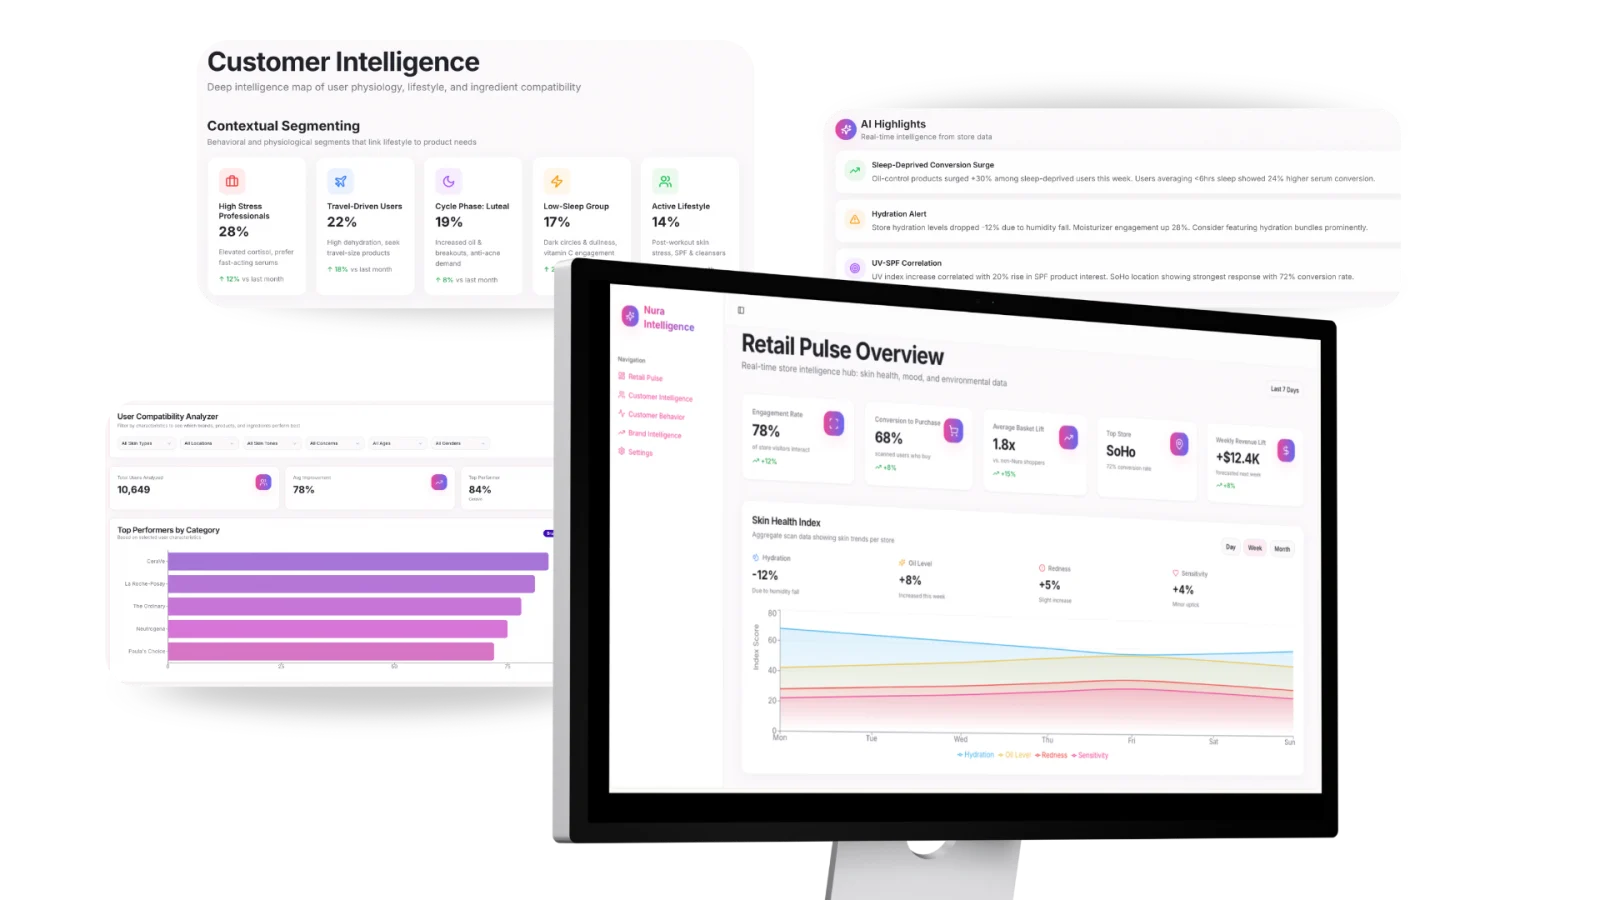
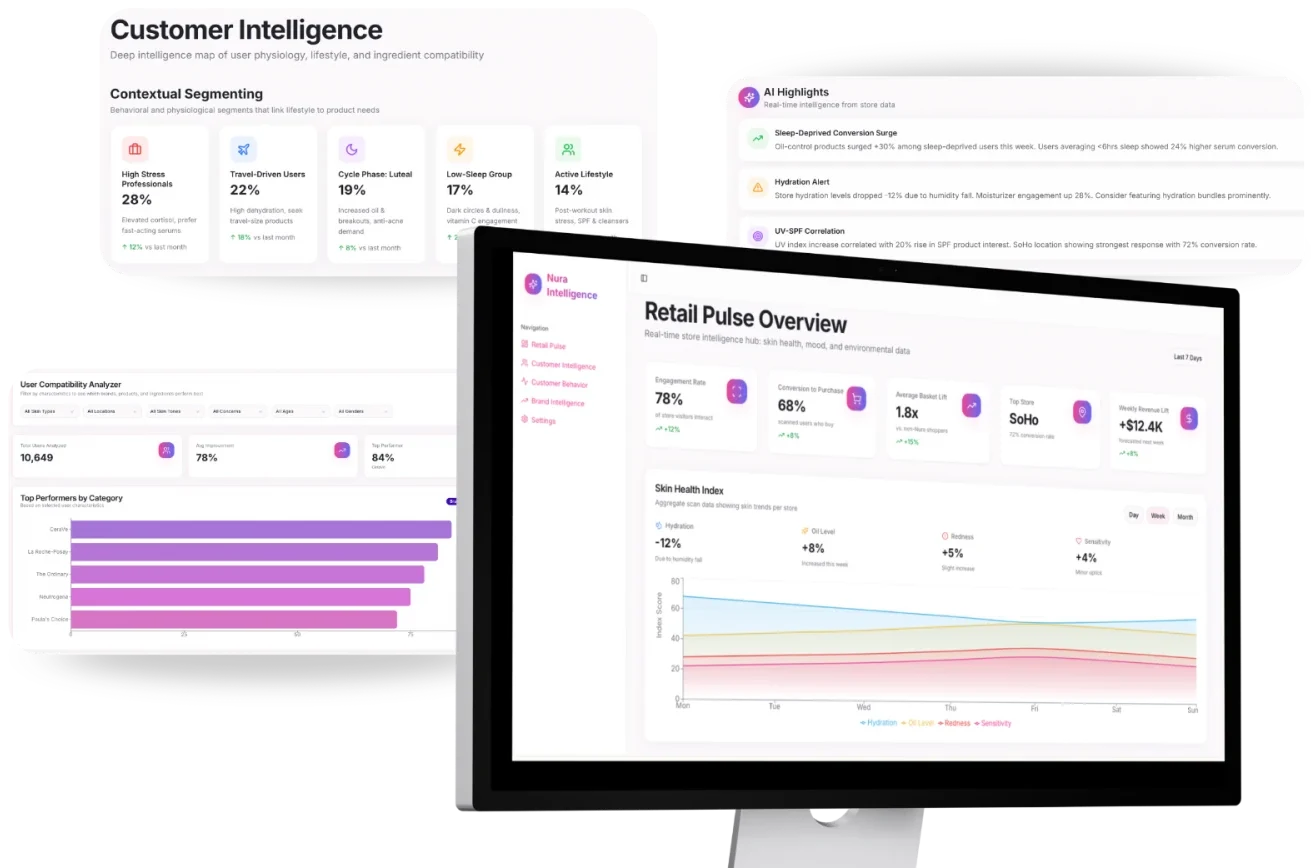
Show screens without gray panels at a larger size; frame Nura as a project

diff --git a/styles.css b/styles.css
@@ -142,38 +142,33 @@ img, video { display: block; max-width: 100%; }
 
 .work-row {
   display: grid;
-  grid-template-columns: minmax(0, 1.45fr) minmax(0, 1fr);
+  grid-template-columns: minmax(0, 1.75fr) minmax(0, 1fr);
   gap: clamp(32px, 4.5vw, 64px);
   align-items: center;
 }
 
+.work-row:nth-child(even) { grid-template-columns: minmax(0, 1fr) minmax(0, 1.75fr); }
 .work-row:nth-child(even) .work-media { order: 2; }
 
 .work-media {
   position: relative;
-  display: flex;
-  align-items: center;
-  justify-content: center;
-  aspect-ratio: 16 / 11;
-  padding: clamp(20px, 3vw, 40px);
-  overflow: hidden;
-  border-radius: var(--radius);
-  background: var(--panel);
+  display: block;
   transition: transform 0.5s var(--ease);
 }
 
 .work-media:hover { transform: translateY(-4px); }
-.work-media > img { width: 100%; height: 100%; object-fit: contain; }
-.work-media.fill { padding: 0; }
-.work-media.fill video, .work-media.fill img { width: 100%; height: 100%; object-fit: cover; }
+.work-media > img { width: 100%; height: auto; }
+.work-media.fill video { width: 100%; aspect-ratio: 16 / 10; object-fit: cover; border-radius: var(--radius); }
+.work-media .chat { margin: 0 auto; width: min(480px, 100%); }
 
 .media-tag {
-  position: absolute;
-  left: 14px; bottom: 12px;
+  display: block;
+  margin-top: 14px;
   font-size: 11px;
   font-weight: 500;
   letter-spacing: 0.08em;
   text-transform: uppercase;
+  text-align: center;
   color: var(--ink-3);
 }
 
@@ -446,22 +441,10 @@ img, video { display: block; max-width: 100%; }
 .case-meta dd a { border-bottom: 1px solid var(--rule-2); transition: border-color 0.2s; }
 .case-meta dd a:hover { border-color: var(--ink); }
 
-.case-cover {
-  position: relative;
-  display: flex;
-  align-items: center;
-  justify-content: center;
-  padding: clamp(24px, 5vw, 64px);
-  overflow: hidden;
-  border-radius: var(--radius);
-  background: var(--panel);
-}
-
+.case-cover { position: relative; display: block; }
 .case-cover > img { width: 100%; height: auto; }
-.case-cover .browser { max-width: 980px; }
-.case-cover.fill { padding: 0; }
-.case-cover.fill video { width: 100%; aspect-ratio: 16 / 9; object-fit: cover; background: #222; }
-.case-cover .chat { width: min(440px, 100%); }
+.case-cover.fill video { width: 100%; aspect-ratio: 16 / 9; object-fit: cover; background: #222; border-radius: var(--radius); }
+.case-cover .chat { margin: 16px auto; width: min(520px, 100%); }
 .cover-caption { margin-top: 12px; font-size: 13.5px; color: var(--ink-3); }
 
 .case-stats { display: grid; grid-template-columns: repeat(4, 1fr); gap: 24px; padding: 48px 0 8px; }
@@ -574,7 +557,7 @@ img, video { display: block; max-width: 100%; }
 .media-grid figcaption { margin-top: 10px; font-size: 14px; color: var(--ink-2); line-height: 1.5; }
 .media-grid figcaption b { color: var(--ink); font-weight: 500; }
 .media-grid video { width: 100%; aspect-ratio: 16 / 9; object-fit: cover; border-radius: 10px; background: #222; }
-.panel-shot { padding: 18px; background: var(--panel); border-radius: 12px; }
+.panel-shot { display: block; }
 .panel-shot img { width: 100%; height: auto; }
 
 .wide { margin-top: 40px; }
@@ -605,7 +588,7 @@ img, video { display: block; max-width: 100%; }
 
 /* Responsive */
 @media (max-width: 960px) {
-  .work-row { grid-template-columns: 1fr; gap: 24px; }
+  .work-row, .work-row:nth-child(even) { grid-template-columns: 1fr; gap: 24px; }
   .work-row:nth-child(even) .work-media { order: 0; }
 
   .split { grid-template-columns: 1fr; gap: 36px; }
@@ -660,5 +643,4 @@ img, video { display: block; max-width: 100%; }
   .figures { grid-template-columns: 1fr 1fr; }
   .media-grid.four { grid-template-columns: 1fr; }
   .url { position: static; transform: none; flex: 1; width: auto; margin-left: 10px; }
-  .work-media { aspect-ratio: 4 / 3; }
 }

diff --git a/work/nura.html b/work/nura.html
@@ -29,20 +29,20 @@
     <section class="case-hero">
       <div class="container">
         <a class="back" href="../index.html#work"><span aria-hidden="true">←</span> All work</a>
-        <p class="eyebrow reveal">Nura · 2025 to present</p>
+        <p class="eyebrow reveal">Nura · Stanford project</p>
         <h1 class="reveal">A countertop device that reads your skin and formulates fresh skincare.</h1>
         <p class="lede reveal">
           Nura reads how your skin is changing, along with signals like sleep
           and stress, and doses a personalized serum and moisturizer from eight
-          NFC-tracked active cartridges. I've taken it from 100+ interviews
-          through industrial design, the companion app, and a 3D skin model.
-          It's now taking refundable reservations for its first production run.
+          NFC-tracked active cartridges. I designed it end to end, from 100+
+          interviews through industrial design, the companion app, and a 3D
+          skin model.
         </p>
         <dl class="case-meta reveal">
-          <div><dt>Role</dt><dd>Founder · product, design, and engineering</dd></div>
-          <div><dt>Timeline</dt><dd>Sep 2025 to present</dd></div>
+          <div><dt>Role</dt><dd>End-to-end product, design, and engineering</dd></div>
+          <div><dt>Context</dt><dd>Stanford project</dd></div>
+          <div><dt>Type</dt><dd>Beauty-tech embodied AI hardware</dd></div>
           <div><dt>Stack</dt><dd>HealthKit, structure from motion, NFC</dd></div>
-          <div><dt>Site</dt><dd><a href="https://dearnura.com" target="_blank" rel="noopener">dearnura.com ↗</a></dd></div>
         </dl>
       </div>
     </section>
@@ -54,7 +54,7 @@
             <source src="../images/nura/hero.mp4" type="video/mp4" />
           </video>
         </div>
-        <figcaption class="cover-caption">Product film from dearnura.com.</figcaption>
+        <figcaption class="cover-caption">Product film of the device.</figcaption>
       </figure>
 
       <ul class="case-stats">
@@ -153,11 +153,11 @@
           </div>
           <div class="media-grid two wide">
             <figure>
-              <div class="panel-shot"><img src="../images/nura-totem.webp" width="1600" height="900" loading="lazy" alt="Nura in-store interface: a skin analysis, the lifestyle factors behind it, a welcome screen, and a personalized routine" /></div>
+              <div class="panel-shot"><img src="../images/nura-totem.webp" width="1407" height="798" loading="lazy" alt="Nura in-store interface: a skin analysis, the lifestyle factors behind it, a welcome screen, and a personalized routine" /></div>
               <figcaption><b>In-store skin analysis.</b> Scores, the factors behind them, and a routine with product reasoning.</figcaption>
             </figure>
             <figure>
-              <div class="panel-shot"><img src="../images/nura-retail.webp" width="1600" height="900" loading="lazy" alt="Nura Retail Intelligence dashboard with customer segments, AI highlights, and a store skin health index" /></div>
+              <div class="panel-shot"><img src="../images/nura-retail.webp" width="1313" height="868" loading="lazy" alt="Nura Retail Intelligence dashboard with customer segments, AI highlights, and a store skin health index" /></div>
               <figcaption><b>Retail intelligence.</b> Skin, behavior, environment, and product data in one store view.</figcaption>
             </figure>
           </div>

diff --git a/index.html b/index.html
@@ -35,8 +35,8 @@
         <p class="lede reveal">
           I study Product Design and Computer Science at Stanford and specialize
           in agent harnesses and recommendation systems. I've shipped them at
-          Renude, Giving Connection, and Kuri Saúde, and I'm building Nura, an
-          AI skincare device.
+          Renude, Giving Connection, and Kuri Saúde, and designed Nura, an AI
+          skincare device, end to end.
         </p>
         <div class="hero-actions reveal">
           <a class="btn btn--dark" href="Nathaly-Shige-Resume.pdf" target="_blank" rel="noopener">View résumé</a>
@@ -110,11 +110,11 @@
               </video>
             </a>
             <div class="work-info">
-              <p class="eyebrow">03 · Nura · 2025 to present</p>
+              <p class="eyebrow">03 · Nura · Stanford project</p>
               <h3 class="work-title"><a href="work/nura.html">A countertop device that reads your skin and formulates fresh skincare</a></h3>
-              <p class="work-sum">An AI skincare device that doses a personalized formula from eight active cartridges. Now taking reservations for its first production run.</p>
+              <p class="work-sum">An AI skincare device that reads your skin and wearables and doses a personalized formula from eight active cartridges.</p>
               <dl class="facts">
-                <div><dt>Role</dt><dd>Founder · product, design, engineering</dd></div>
+                <div><dt>Role</dt><dd>End-to-end product, design, engineering</dd></div>
                 <div><dt>Research</dt><dd>100+ user and expert interviews</dd></div>
               </dl>
               <a class="arrow-link" href="work/nura.html">Read case study <span aria-hidden="true">→</span></a>
@@ -123,7 +123,7 @@
 
           <article class="work-row reveal">
             <a class="work-media" href="work/kuri-saude.html" aria-label="Kuri Saúde case study">
-              <img src="images/kuri-dashboard.webp" width="1600" height="900" alt="Kuri Saúde document intelligence dashboard" />
+              <img src="images/kuri-dashboard.webp" width="1198" height="872" alt="Kuri Saúde document intelligence dashboard" />
             </a>
             <div class="work-info">
               <p class="eyebrow">04 · Kuri Saúde · 2023</p>

diff --git a/work/kuri-saude.html b/work/kuri-saude.html
@@ -49,7 +49,7 @@
     <div class="container">
       <figure class="reveal">
         <div class="case-cover">
-          <img src="../images/kuri-dashboard.webp" width="1600" height="900" alt="Kuri Saúde dashboard showing critical, expired, and soon-to-expire insurer documents above a searchable document list" />
+          <img src="../images/kuri-dashboard.webp" width="1198" height="872" alt="Kuri Saúde dashboard showing critical, expired, and soon-to-expire insurer documents above a searchable document list" />
         </div>
         <figcaption class="cover-caption">The analyst dashboard: critical, expired, and soon-to-expire documents, with every insurer document searchable.</figcaption>
       </figure>
